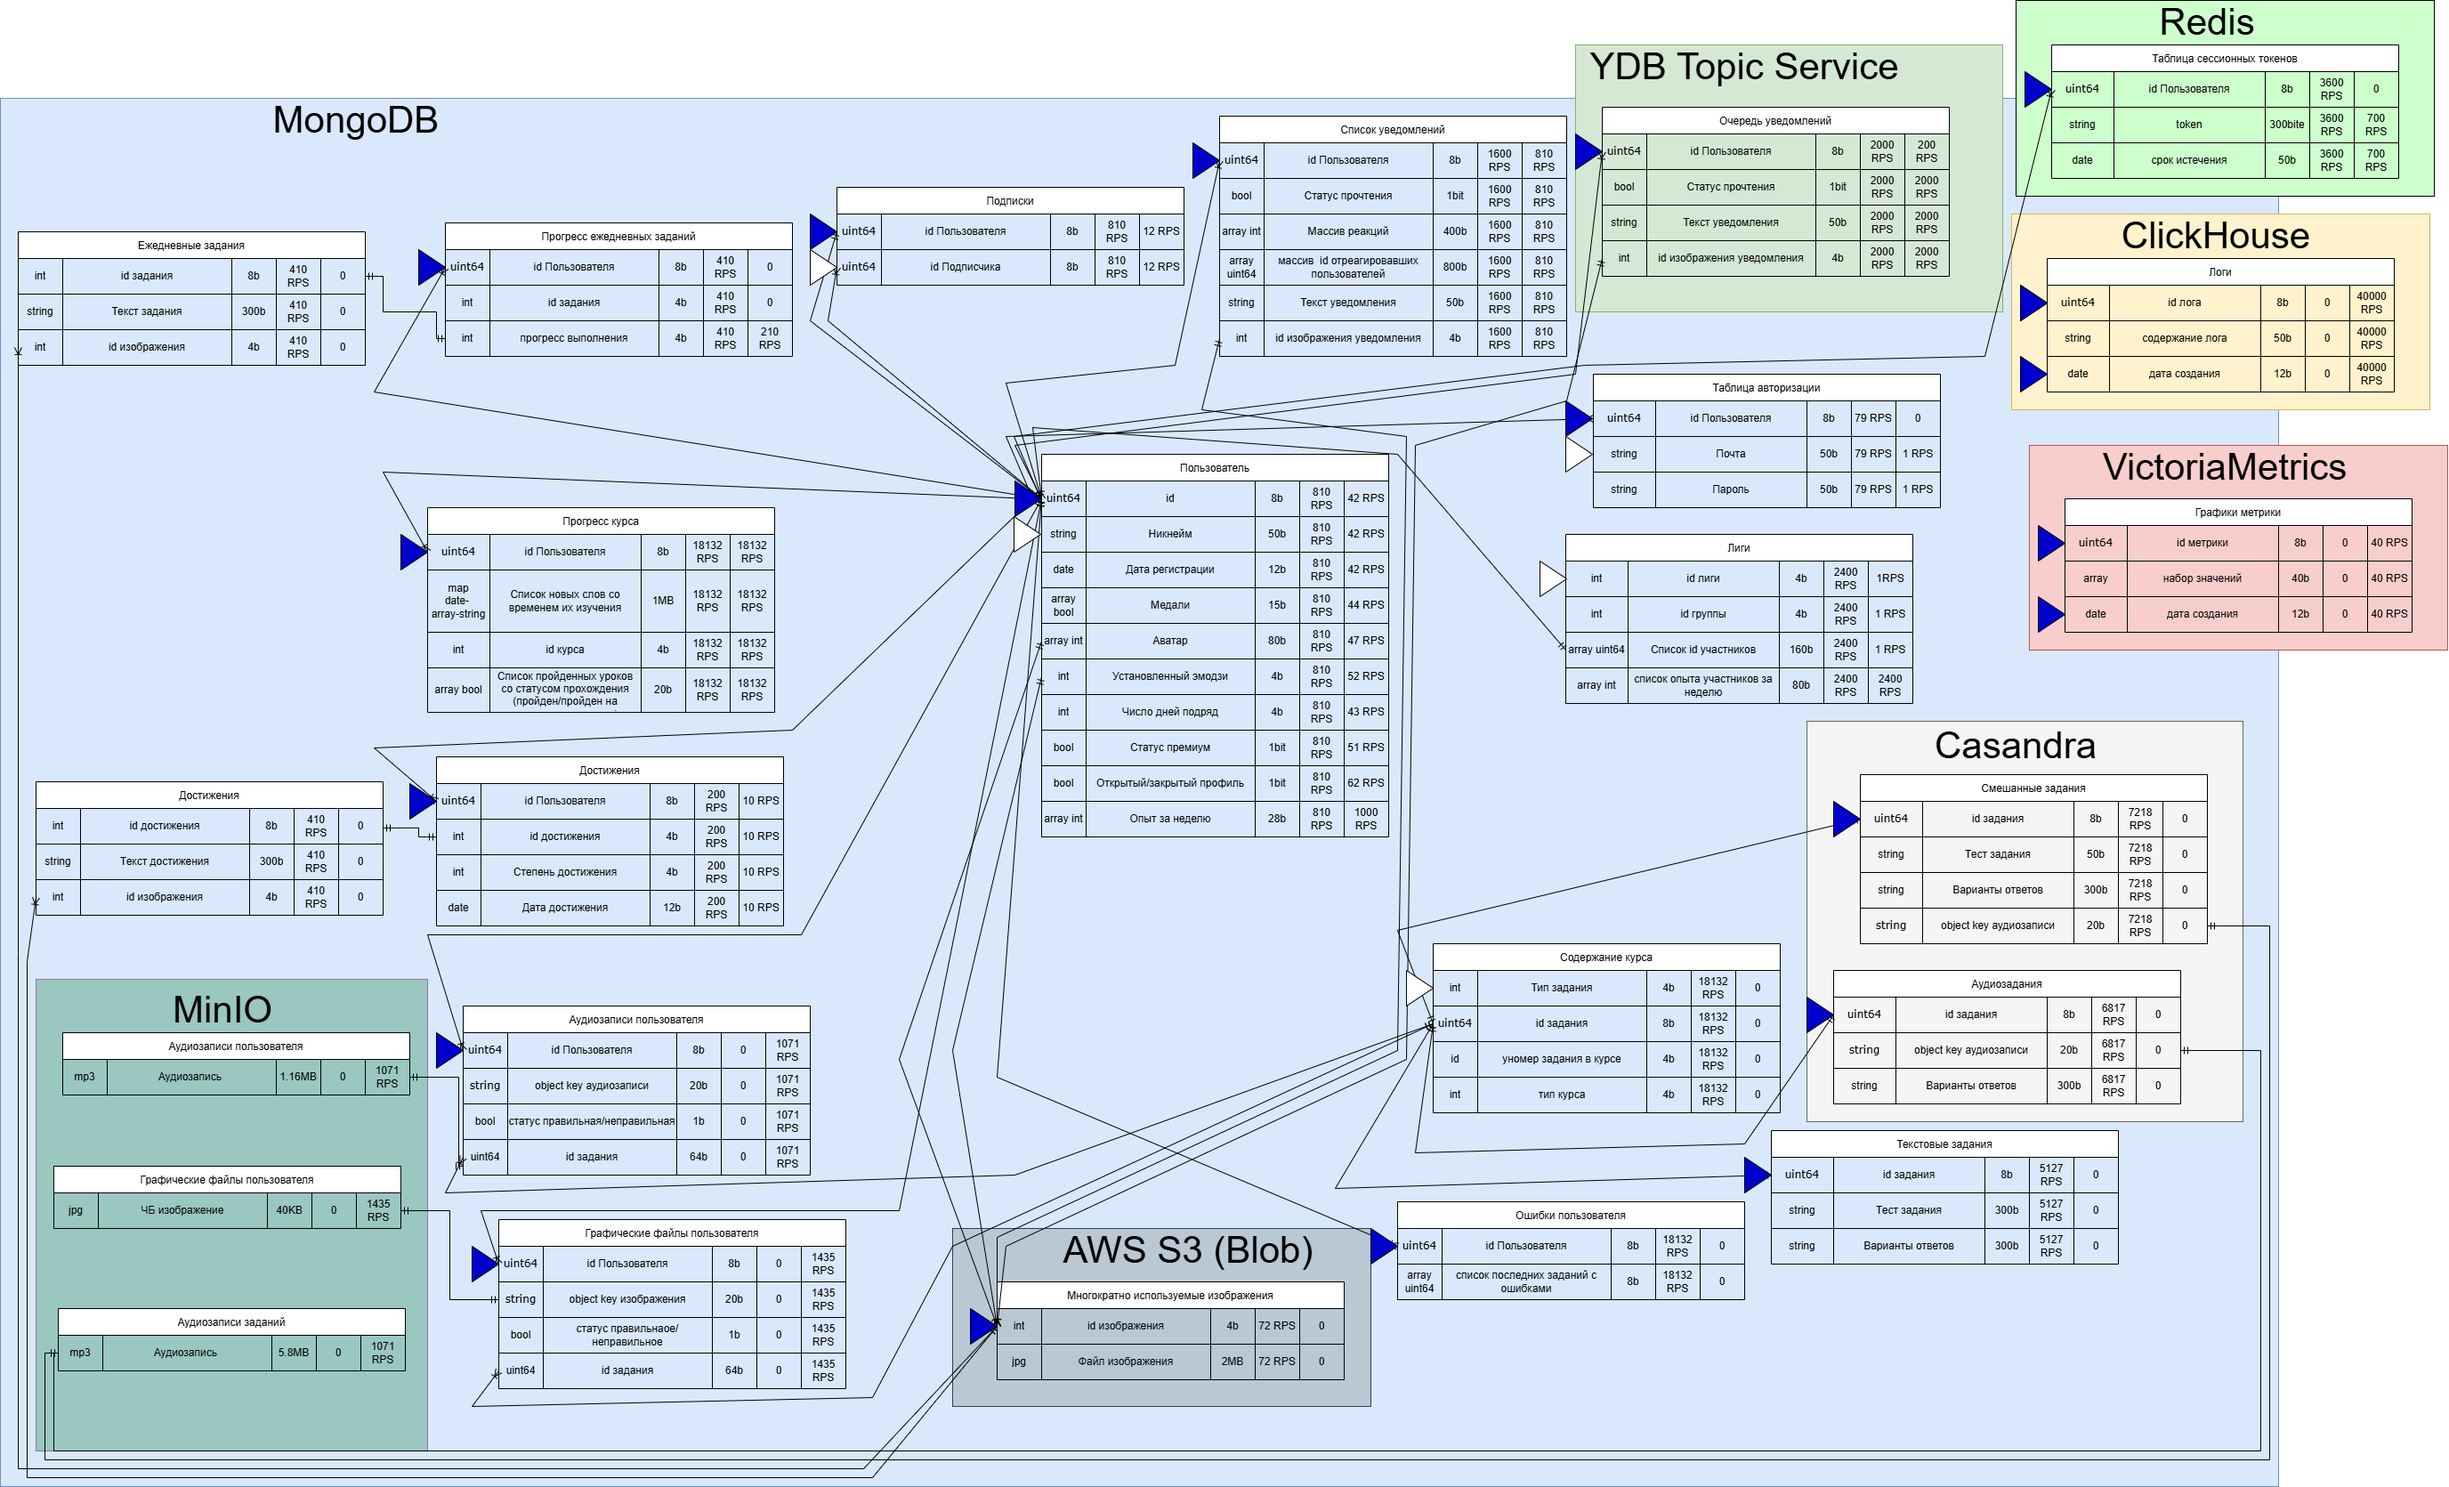
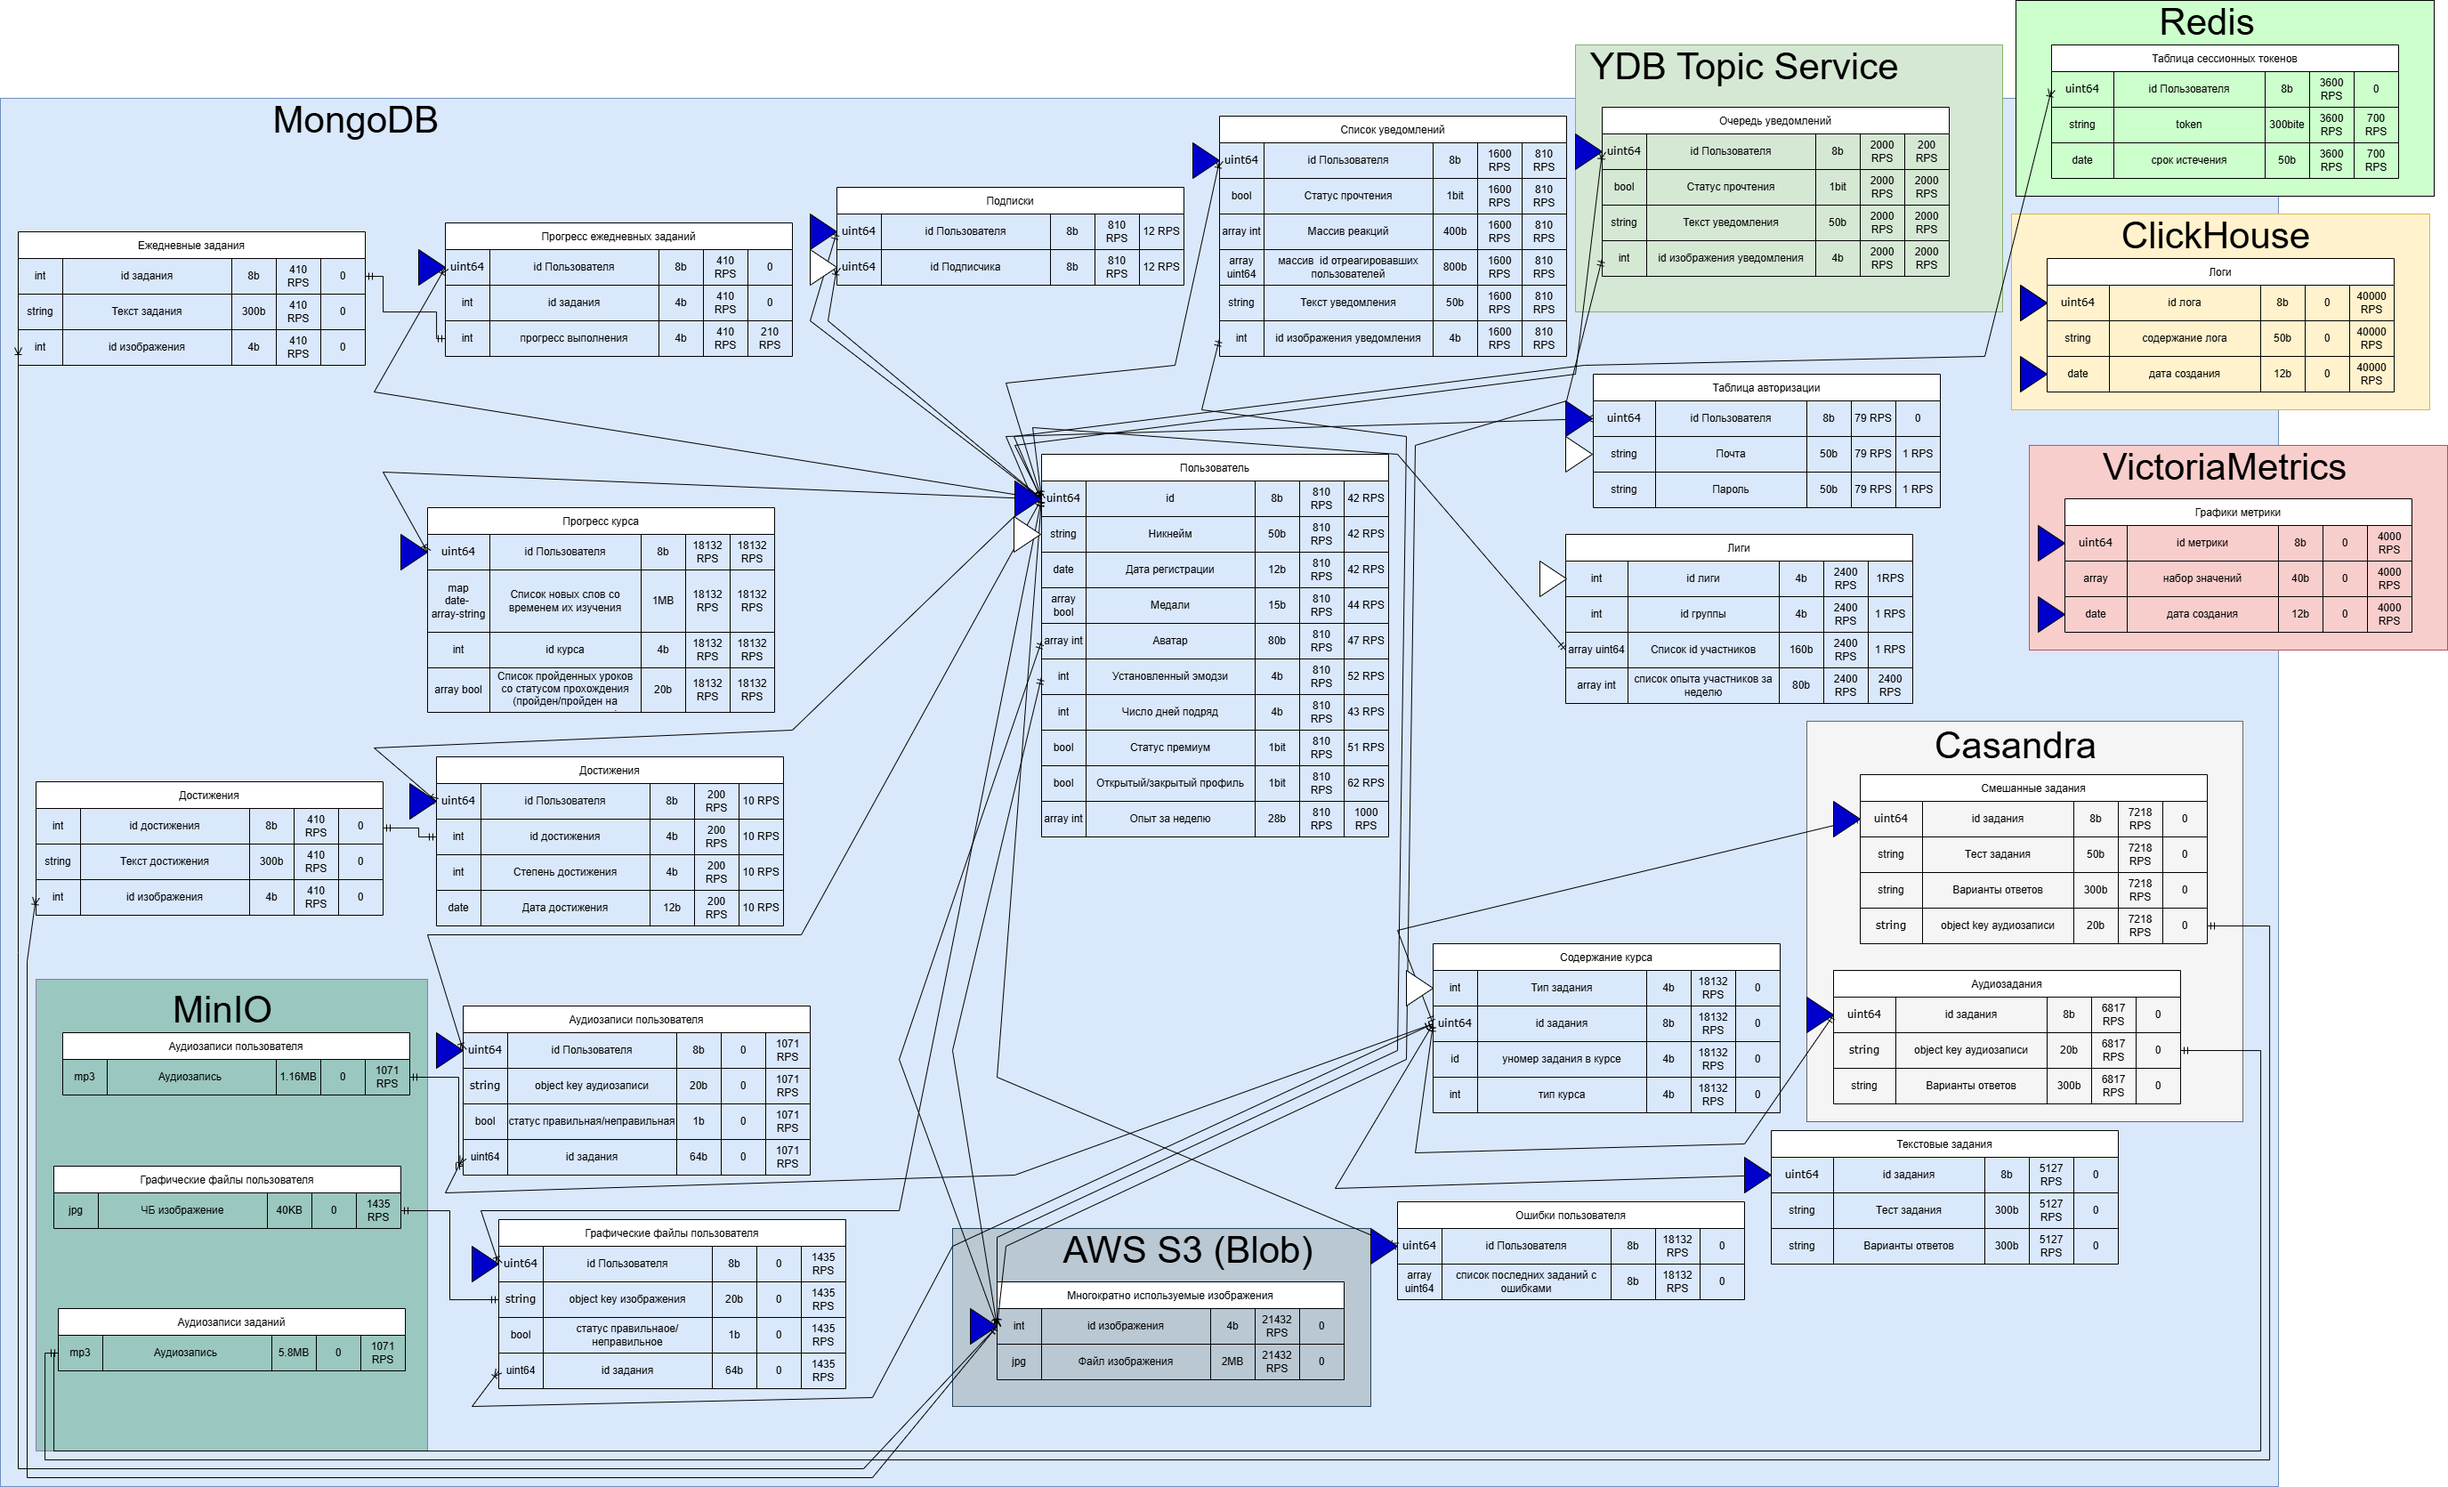
11 dz bd

diff --git a/README.md b/README.md
@@ -606,7 +606,14 @@ MongoDB-клиенты используют пулы соединений для
 * Nginx SSL ≈ 1 ядро на 1000 CPS (handshake).
 * RAM ~10–100 Кб на лёгкий запрос, 500Кб–2Мб на бизнес-логику.
 * Net оценивается как ~5 Кб ответ для лёгкого API, 5–10 Мб для тяжёлого.
+* CPU Intel Xeon Gold 6338 ≈ $3,500,
+* 64 GB RAM ≈ $200,
+* NVMe 8TB ≈ $700,
+* Сетевая карта 25Gb/s ≈ $300.
+
 Запас по requests/limits берем х2 для надежности, у метрик и логов поменьше х1.5 для экономии ресурсов, у важных сервисов, оплаты и авторизации х4 тем более что они довольно мало потребляют.
+
+### Таблица для микросервисов
 
 | Сервис                 | Технология                     | Нагрузка (RPS) | RAM (r/l)       | CPU (r/l)  | Net (Gbit/s) | Конфигурация                          | Cores (на сервис) | Cnt | Покупка  | Аренда |
 |-------------------------|---------------------------------|----------------|-----------------|------------|--------------|----------------------------------------|--------------------|-----|----------|--------|
@@ -628,6 +635,31 @@ MongoDB-клиенты используют пулы соединений для
 | Metrics                  | C++ (легкое JSON API)           | 40000          | 600MB/900MB     | 6.7/10      | 1.6          | 2x6338/512GB/2xNVMe500G/1x5Gb/s         | 10                 | 1   | $6,000  | $120   |
 | Logs                     | C++ (легкое JSON API)           | 40000          | 600MB/900MB     | 6.7/10      | 1.6          | 2x6338/512GB/2xNVMe500G/1x5Gb/s         | 10                 | 1   | $6,000  | $120   |
 | SSL Termination          | Nginx (SSL handshake)           | 60000          | 900MB/1.8GB     | 60/120      | 2.5          | 2x6338/512GB/2xNVMe500G/1x5Gb/s         | 120                | 2   | $12,000  | $240   |
+
+### Таблица для баз даннах
+
+* 100 RPS ≈ 1 GB RAM
+* 100 RPS ≈ 0,5 cores CPU
+* Disck рассчитан исходя из 2 Дз и специфики того, что хранится в БД
+* Конфигурация подобрана так чтобы было несколько самостоятельных серверов для отказоустойчивости физической.
+* Cnt - требования по RAM, CPU, Disk деленые на параметры конфигурации
+
+| Сервис             | RPS   | RAM (GB) | CPU (cores) | Disk (TB) | Конфигурация                            | Cnt | Покупка   | Аренда   |
+|--------------------|--------|-----------|---------------|------------|-----------------------------------------|-----|------------|----------|
+| MongoDB            | 70000  | 700      | 350          | 400        | 6338/64GB/5xNVMe8T/25Gb/s       | 11  | $121,000  | $4,840  |
+| YDB Topic Service  | 5000   | 50       | 25           | 50         | 6338/64GB/2xNVMe8T/25Gb/s        | 3  | $16,200   | $648    |
+| Redis              | 5000   | 70       | 35           | 100        | 6338/64GB/8xNVMe8T/25Gb/s        | 2  | $19,200   | $768    |
+| ClickHouse         | 40000  | 200      | 100          | 250        | 6338/64GB/4xNVMe8T/25Gb/s       | 5  | $34,000   | $1,360  |
+| VictoriaMetrics    | 4000   | 20       | 10           | 150        | 6338/64GB/10xNVMe8T/25Gb/s        | 2  | $22,000   | $880    |
+| Casandra           | 20000  | 200      | 100          | 100        | 6338/64GB/3xNVMe8T/25Gb/s        | 4  | $24,400   | $976    |
+| AWS S3             | 21432  | 220      | 110          | 10         | 6338/64GB/NVMe8T/25Gb/s        | 3  | $14,100   | $564    |
+| Kafka              | 50000  | 500      | 250          | 200        | 6338/64GB/4xNVMe8T/25Gb/s        | 8  | $54,400   | $2,176  |
+| MinIO              | 5000   | 70      | 15           | 340        | 6338/64GB/12xNVMe8T/25Gb/s       | 4  | $49,600   | $1,984  |
+
+**Итого:**
+
+* Покупка - $430,900
+* Аренда - $15,716
 
 ## Список источников
 
